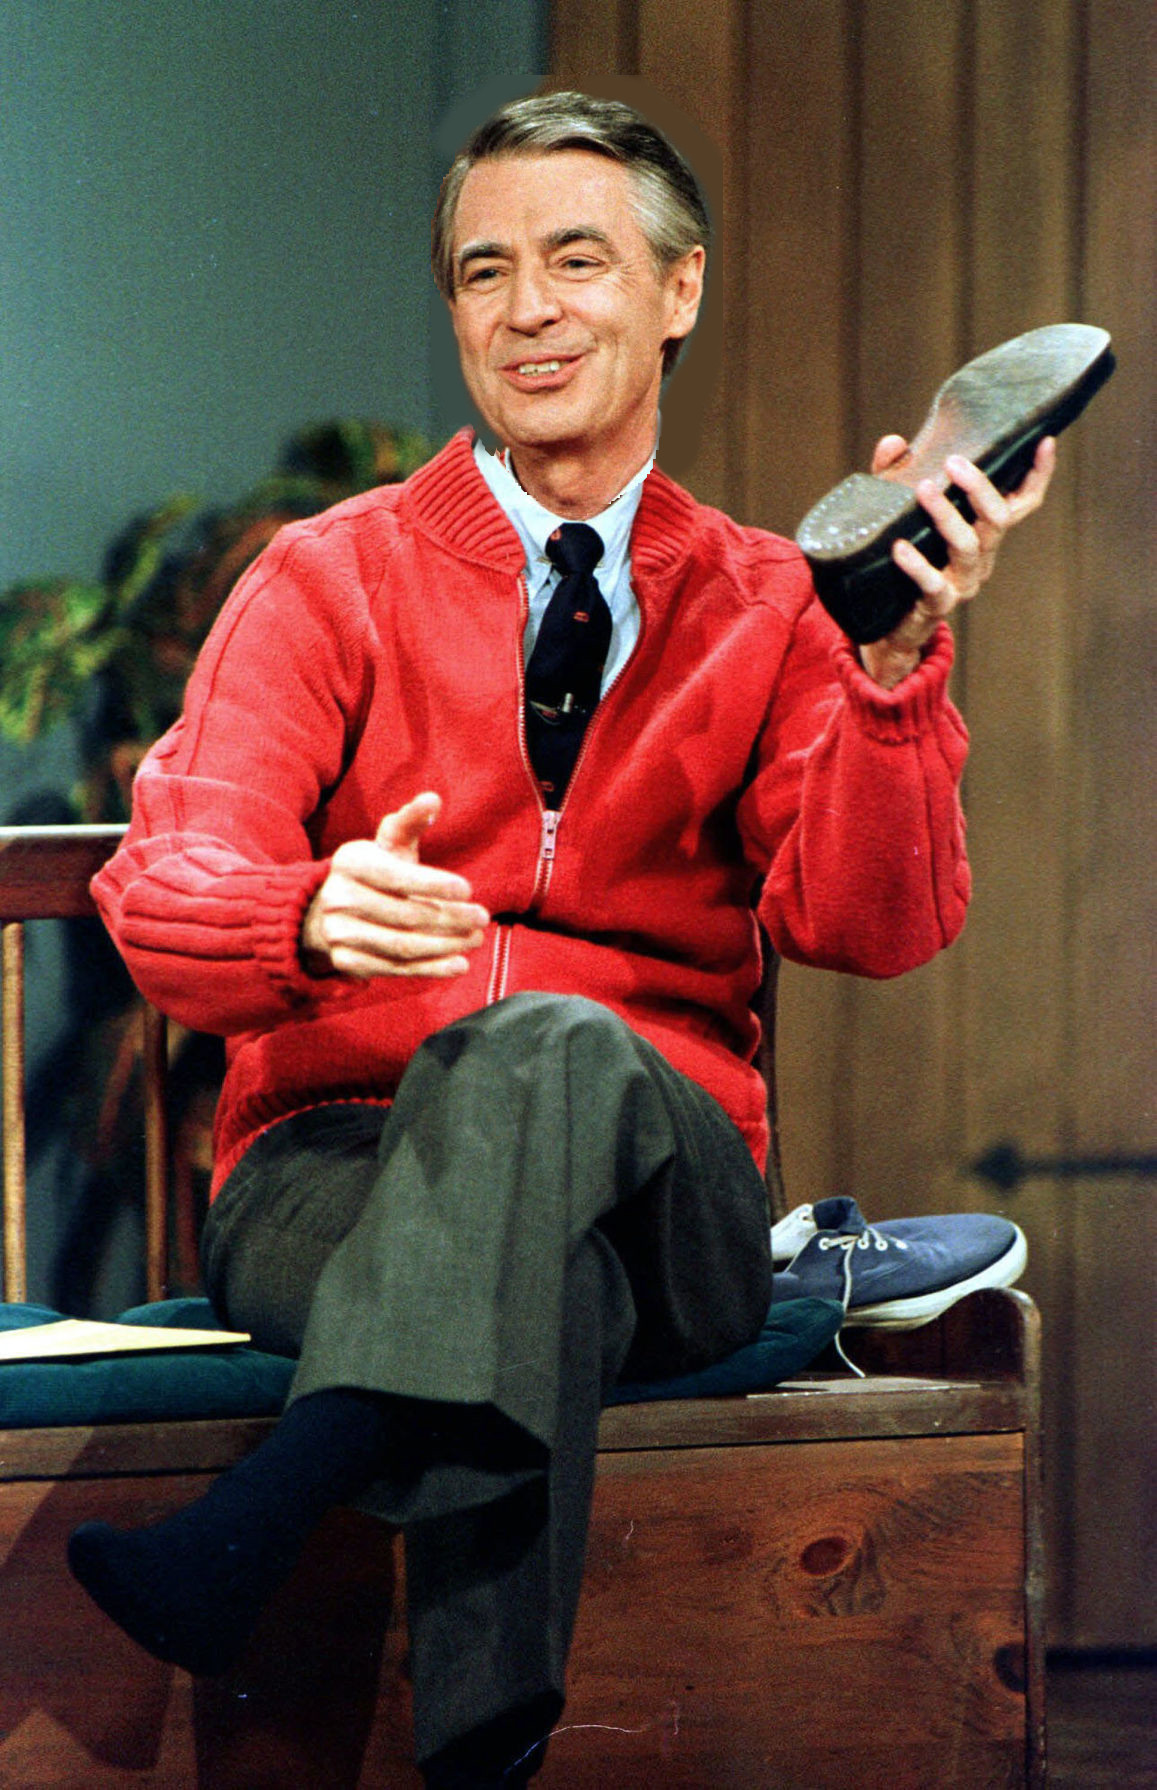
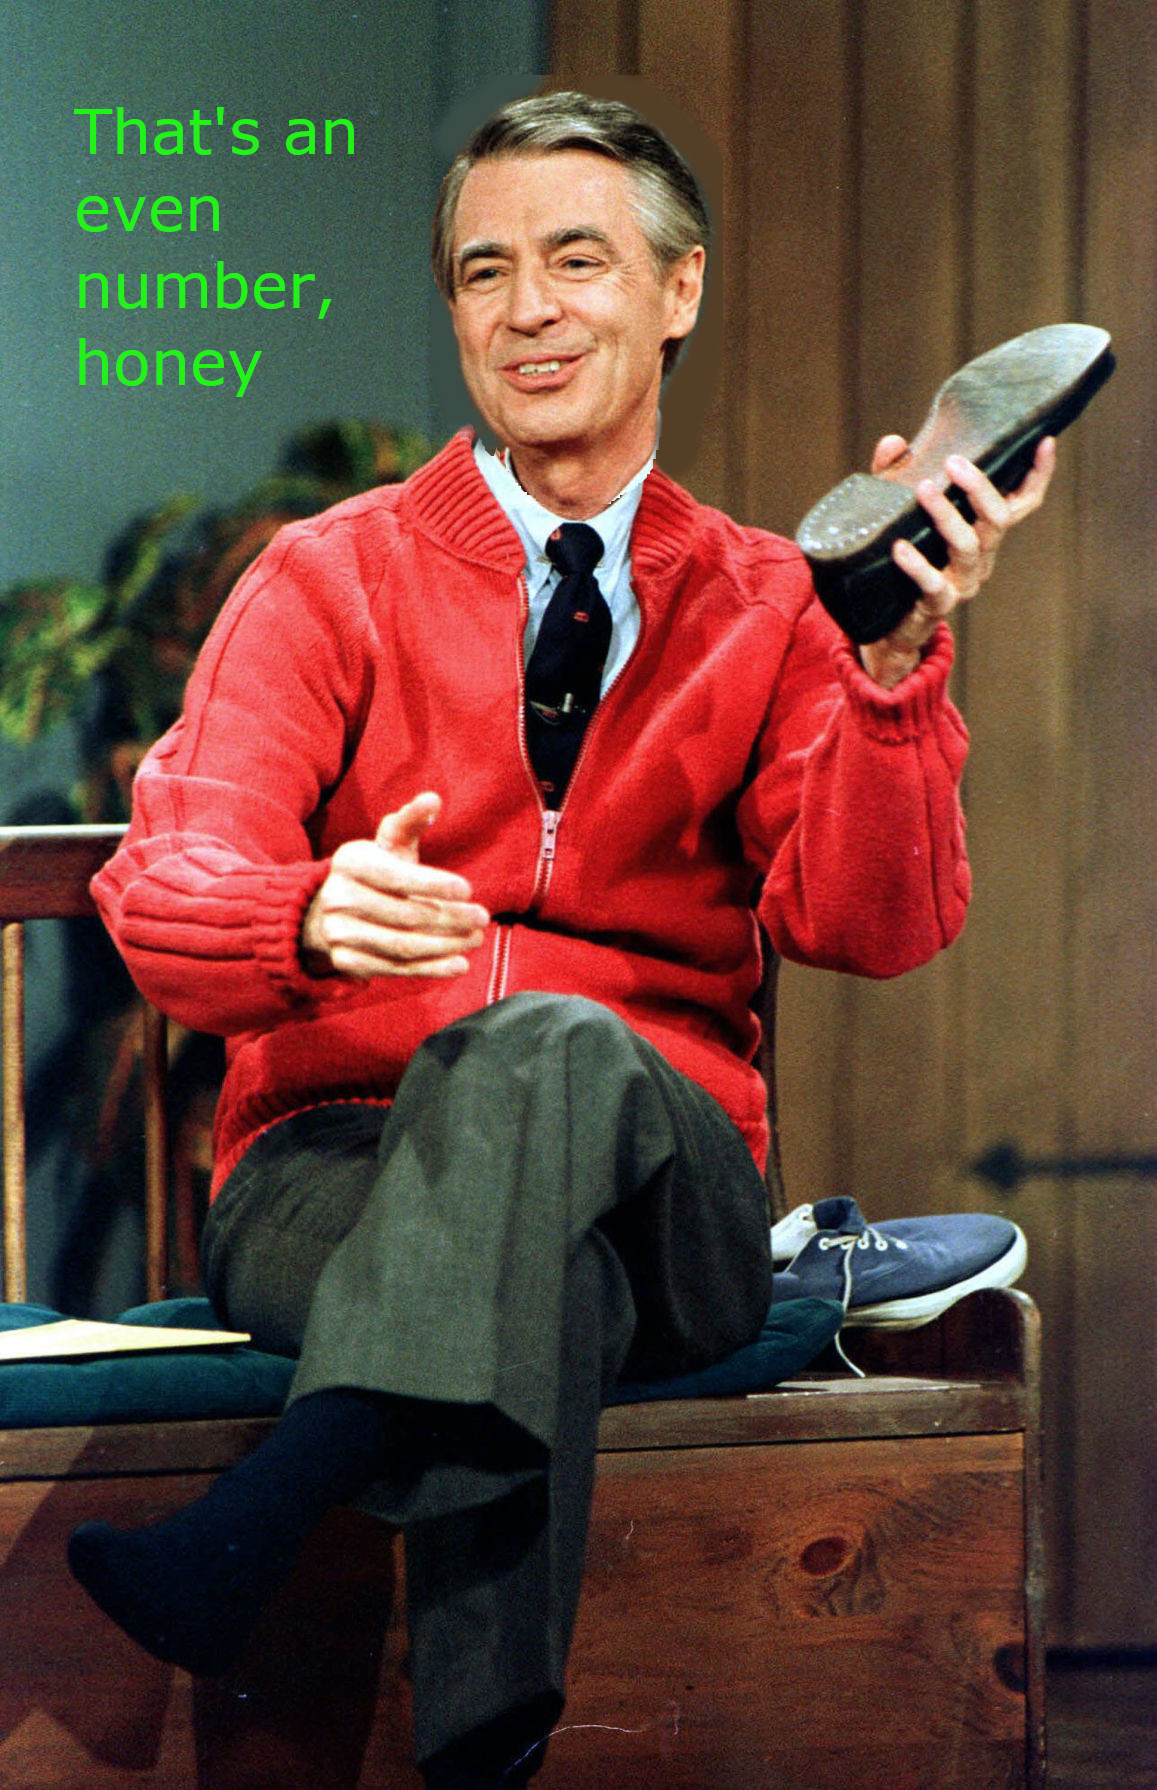
add the different quotes to the pictures

Changed region(s): [[0.0622, 0.0615, 0.28, 0.2151], [0.2489, 0.0615, 0.3111, 0.0922]]

diff --git a/css/styles.css b/css/styles.css
@@ -11,7 +11,22 @@
   display: none;
 }
 
+.top-left {
+  position: absolute;
+  top: 8px;
+  left: 16px;
+}
+
+.thing {
+  position: relative;
+}
+
 #rogers2 {
+  display: none;
+  width: 50%;
+}
+
+#rogers3 {
   display: none;
   width: 50%;
 }
@@ -74,28 +89,6 @@ body {
   display: none;
 }
 
-
-.modal {
-  display: none; 
-  position: fixed;
-  z-index: 1;
-  left: 0;
-  top: 0;
-  width: 100%;
-  height: 100%;
-  overflow: auto;
-  background-color: rgb(0,0,0);
-  background-color: rgba(0,0,0,0.4);
-}
-
-.modal-content {
-  background-color: plum;
-  margin: 15% auto;
-  padding: 20px;
-  border: 5px solid black;
-  width: 80%;
-  text-align: center;
-}
 
 .left {
   float: left;

diff --git a/js/scripts.js b/js/scripts.js
@@ -87,7 +87,14 @@ $(document).ready(function () {
     printLine(finalArray);
     //$("#output").text(finalArray);
     $("#rogers").hide();
-    $("#rogers2").show();
+    if (userNumber % 2 === 0) {
+      $("#rogers2").show();
+      $("#rogers3").hide();
+    } else {
+      $("#rogers3").show();
+      $("#rogers2").hide();
+    }
+
     $("#resultBox").fadeIn();
     $("#again").slideDown();
     $("#again").click(function () {

diff --git a/index.html b/index.html
@@ -52,11 +52,12 @@
       </div>
       <div class="col-xs-6">
         <img src="img/rogers.jpg" id="rogers">
-
       </div>
       <div class="col-xs-6">
         <img src="img/rogers2.jpg" id="rogers2">
-
+      </div>
+      <div class="col-xs-6">
+        <img src="img/rogers3.jpg" id="rogers3">
       </div>
     </div>
   </div>

diff --git a/README.md b/README.md
@@ -7,7 +7,7 @@
 
 ## Description
 
-_This web applicaation uses looping and arrays to return a message in which all numbers that include the digit 3 are replaced by "Won't you be my neighbor?", all numbers with digit 2 are replaced with the word "Boop!", and all numbers with digit 3 are replaced with the word "Beep!"._
+_This web applicaation uses looping and arrays to return a message in which all numbers that include the digit 3 are replaced by "Won't you be my neighbor?", all numbers with digit 2 are replaced with the word "Boop!", all numbers with digit 3 are replaced with the word "Beep!", and all numbers that are divisible by 3 are replaced with "Won't you be my neighbor, " followed by the user's name._
 
 ## Setup/Installation Requirements
 
